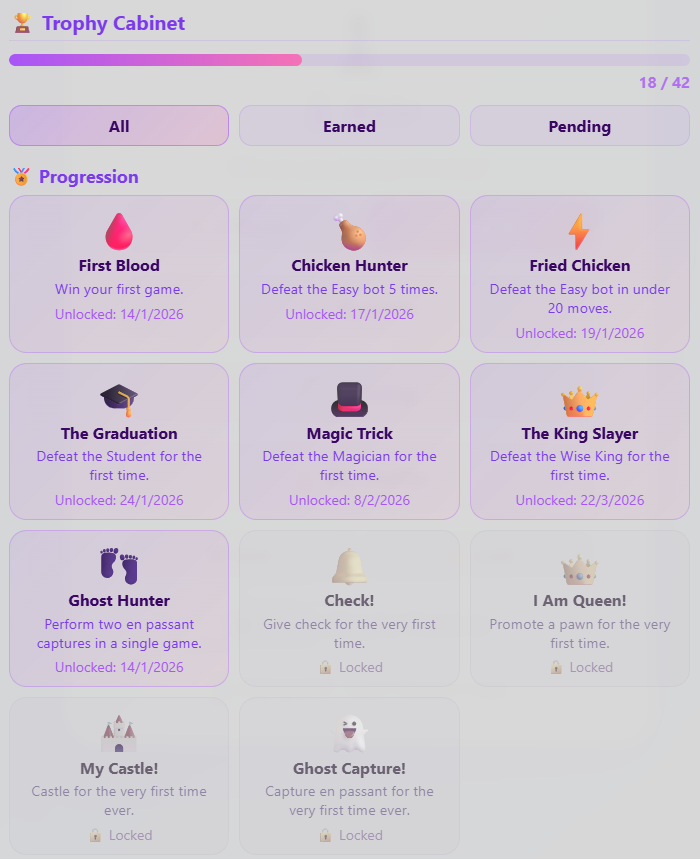
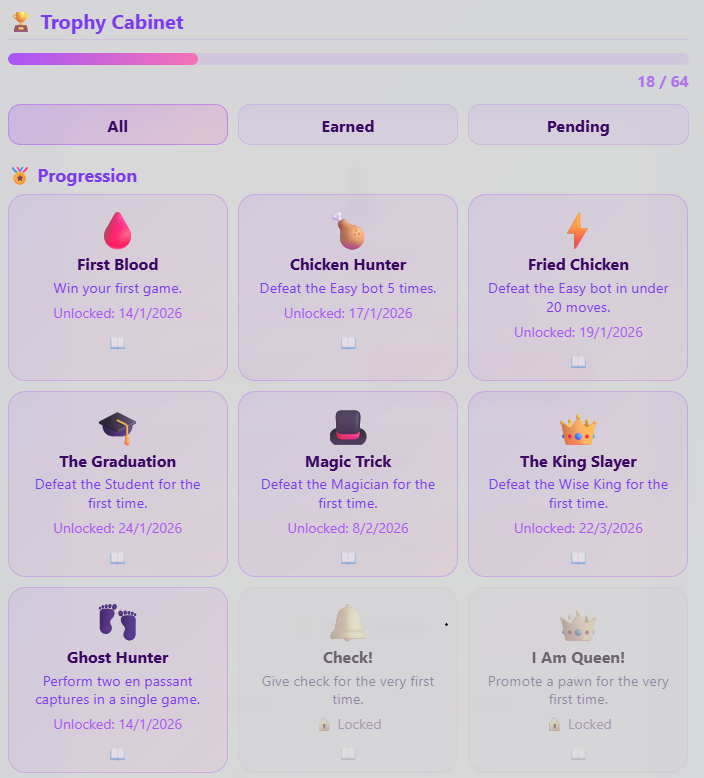
docs: update all four doc files for v2.24.0 — 64 trophies, 9 categories

diff --git a/README_es.md b/README_es.md
@@ -110,6 +110,7 @@ Airin te recuerda. Cada partida que juegas queda registrada, y tu progreso se re
 Al abrir Airin por primera vez te pedirá tu nombre. A partir de ahí registra tu historial completo.
 
 - **Estadísticas de por vida** — partidas totales, victorias, tablas, derrotas, deshacer usados, pistas pedidas
+- **Estadísticas por color** — registro de victorias, tablas y derrotas por separado para las partidas con blancas y con negras
 - **Salón de los Récords** — victoria más rápida (menos jugadas) y mayor ventaja de evaluación conseguida
 - **Barras W/D/L por bot** — registro desglosado por nivel de dificultad con colores
 - **Nombre editable** — pulsa sobre tu nombre en el perfil para cambiarlo en cualquier momento
@@ -119,15 +120,25 @@ Al abrir Airin por primera vez te pedirá tu nombre. A partir de ahí registra t
 
 ### 🏆 La Vitrina de Trofeos
 
-42 logros desbloqueables en cuatro categorías.
+**64 logros desbloqueables en 9 categorías** — un trofeo por cada casilla del tablero.
 
-**Progresión y Hitos** — derrota cada nivel de dificultad, gana en menos de 20 jugadas, realiza tu primera captura al paso.
+**🏅 Progresión** — derrota cada nivel de dificultad, realiza tu primera captura al paso, da tu primer jaque, enroca por primera vez.
 
-**Desafíos Técnicos** — gana sin pistas ni deshacer, sobrevive 60 jugadas contra el Rey Sabio, da jaque mate con un peón, fuerza tablas desde una posición perdida.
+**🧠 Técnica** — gana tras una remontada, enroca sin mover el rey, da jaque mate con el Rey activo en la 6ª fila, sube la Escalera Sin-Deshacer del Fácil al Rey Sabio.
 
-**Huevos de Pascua (ocultos)** — 8 trofeos secretos. Sus nombres están ocultos hasta que los desbloqueas. Ya los descubrirás.
+**⚡ Velocidad y Reto** — gana en 15 jugadas, derrota al Mago sin pistas, fuerza tablas contra el Mago.
 
-**Los Historiadores** — recrea sacrificios legendarios de la historia del ajedrez. Si mueves la pieza exacta a la casilla exacta en las condiciones adecuadas, Airin reconoce el momento y otorga el trofeo en tiempo real.
+**🔥 Rachas y Lealtad** — gana 3 seguidas, juega en 5 días distintos, gana 50 partidas con cada color.
+
+**📚 Aprendizaje** — usa al Profesor, explora aperturas con nombre, monta el fianchetto.
+
+**⚔ Táctica** — torre en la 7ª fila, dobles torres, batería, horquilla de peón, jaque a la descubierta, tormenta de peones y más.
+
+**🥊 Dos Jugadores** — 7 trofeos exclusivos del modo local 2 jugadores.
+
+**📜 Los Historiadores** — recrea sacrificios legendarios de la historia del ajedrez en tiempo real.
+
+**🥚 Huevos de Pascua (ocultos)** — 9 trofeos secretos. Nombres ocultos hasta desbloquearlos. Ya los descubrirás.
 
 <img src="screenshots/ES/trophy_cabinet.png" alt="Vitrina de Trofeos" width="500" />
 
@@ -240,12 +251,13 @@ Tres estilos, con etiquetas ahora visibles bajo el deslizador:
 * **Guardar y Cargar:** Ahora puedes exportar todo tu perfil y progreso de juego a un archivo y cargarlo más tarde en cualquier dispositivo.
 
 ### 🏆 La Vitrina de Trofeos
-* **42 Logros Desbloqueables:** ¡Hemos añadido una enorme Vitrina de Trofeos! Gana recompensas por todo, desde tu primer jaque y coronación de peón, hasta ganar en menos de 15 movimientos o lograr remontadas increíbles.
-* **Huevos de Pascua Ocultos:** Hay 8 trofeos secretos escondidos. No sabrás cuáles son hasta que los actives accidentalmente (o intencionadamente).
-* **Los Historiadores:** ¡Recrea momentos legendarios de la historia del ajedrez! Si logras encontrar los mismos sacrificios brillantes jugados por maestros como Marshall o Vladimirov, Airin lo reconocerá y te recompensará.
+* **64 Logros Desbloqueables:** Una enorme Vitrina de Trofeos con 64 trofeos en 9 categorías — uno por cada casilla del tablero. Gana recompensas por hitos, patrones tácticos, recreaciones históricas, remontadas, rachas y mucho más.
+* **Escalera Sin-Deshacer:** Cuatro trofeos por ganar a cada dificultad sin pulsar Deshacer ni una vez — *Sin Ruedines*, *Escrito a Tinta*, *Hechizo Irreversible*, *El Inmortal*.
+* **Huevos de Pascua Ocultos:** 9 trofeos secretos escondidos. No sabrás cuáles son hasta que los encuentres.
+* **Los Historiadores:** ¡Recrea momentos legendarios de la historia del ajedrez! Si encuentras los mismos sacrificios brillantes jugados por maestros como Marshall o Vladimirov, Airin lo reconocerá y te recompensará.
 
 ### 🎉 Celebraciones en el Juego
-* Cuando desbloquees un logro, aparecerá una celebración emergente en tiempo real durante tu partida. Airin ahora recuerda tus victorias. ¡Veamos cuántos trofeos puedes coleccionar!
+* Al desbloquear un logro, una pequeña notificación se desliza desde la esquina — en tiempo real, discreta, sin cubrir el tablero. Airin ahora recuerda tus victorias. ¡Veamos cuántos trofeos puedes coleccionar!
 
 *(Para las actualizaciones completas del motor desde v2.23.0 y anteriores, consulta el Historial de versiones completo).*
 

diff --git a/README.md b/README.md
@@ -108,6 +108,7 @@ Airin remembers you. Every game you play is tracked, and your progress is reward
 Upon starting for the first time, Airin asks for your name. From that point on, it tracks your full history.
 
 - **Lifetime stats** — total games, wins, draws, losses, undos used, hints requested
+- **Stats by color** — separate win/draw/loss record for games played as White and as Black
 - **Hall of Records** — fastest win (fewest moves) and highest evaluation advantage ever achieved
 - **Per-bot W/D/L bars** — colour-coded record against each difficulty level
 - **Editable name** — tap your name in the profile to rename yourself at any time
@@ -116,15 +117,25 @@ Upon starting for the first time, Airin asks for your name. From that point on, 
 
 ### 🏆 The Trophy Cabinet
 
-42 unlockable achievements across four categories.
+**64 unlockable achievements across 9 categories** — one trophy for every square on the board.
 
-**Progression & Milestones** — defeat each difficulty level, win in under 20 moves, pull off your first en passant.
+**🏅 Progression** — defeat each difficulty level, pull off your first en passant, make your first check, castle for the first time.
 
-**Technical Challenges** — win with zero hints and zero undos, survive 60 moves against Wise King, checkmate with a pawn, force a draw from a losing position.
+**🧠 Technical** — win after a comeback, castle and never move your king again, deliver checkmate with your King marching to rank 6, climb the No-Undo Ladder from Easy all the way to the Wise King.
 
-**Easter Eggs (hidden)** — 8 secret trophies. Their names are hidden until you unlock them. You'll figure them out.
+**⚡ Speed & Challenge** — win in 15 moves, beat the Hard bot without any hints, force a draw against the Magician.
 
-**The Historians** — recreate legendary sacrifices from chess history. If you play the exact piece to the exact square under the right conditions, Airin recognises the moment and awards the trophy in real time.
+**🔥 Streaks & Loyalty** — win 3 in a row, play on 5 different days, win 50 games on each side of the board.
+
+**📚 Learning** — use the Coach, explore named openings, set up the fianchetto.
+
+**⚔ Tactics** — rook on the 7th rank, double rooks, battery, pawn fork, discovered check, pawn storm, and more.
+
+**🥊 Two-Player** — 7 trophies exclusive to local 2-player mode.
+
+**📜 The Historians** — recreate legendary sacrifices from chess history in real time.
+
+**🥚 Easter Eggs (hidden)** — 9 secret trophies. Names hidden until unlocked. You'll figure them out.
 
 <img src="screenshots/EN/trophy_cabinet.png" alt="Trophy Cabinet" width="500" />
 
@@ -232,12 +243,13 @@ Welcome to Airin v2.24.0! This massive update introduces **The Statistician**, g
 * **Save & Load:** You can now export your entire profile and game progress to a file and load it later on any device.
 
 ### 🏆 The Trophy Cabinet
-* **42 Unlockable Achievements:** We've added a massive Trophy Cabinet! Earn rewards for everything from your first check and pawn promotion, to winning in under 15 moves, to pulling off crazy comebacks.
-* **Hidden Easter Eggs:** There are 8 secret trophies tucked away. You won't know what they are until you accidentally (or intentionally) trigger them.
-* **The Historians:** Recreate legendary moments from chess history! If you manage to find the same brilliant sacrifices played by masters like Marshall or Vladimirov, Airin will recognize it and reward you.
+* **64 Unlockable Achievements:** A massive Trophy Cabinet with 64 trophies across 9 categories — one for every square on the board. Earn rewards for milestones, tactical patterns, historical recreations, comebacks, streaks, and more.
+* **No-Undo Ladder:** Four trophies for winning each difficulty level without ever pressing Undo — *No Training Wheels*, *Written in Ink*, *Irreversible Spell*, *The Immortal*.
+* **Hidden Easter Eggs:** 9 secret trophies tucked away. You won't know what they are until you find them.
+* **The Historians:** Recreate legendary moments from chess history! If you manage to find the same brilliant sacrifices played by masters like Marshall or Vladimirov, Airin will recognise it and reward you.
 
 ### 🎉 In-Game Celebrations
-* When you unlock an achievement, a celebration popup will appear in real-time during your game. Airin now remembers your victories. Let's see how many trophies you can collect!
+* When you unlock an achievement, a small banner slides in from the corner — real-time, non-intrusive, never covering the board. Airin now remembers your victories. Let's see how many trophies you can collect!
 
 *(For the complete engine updates from v2.23.0 and prior, see the full Changelog).*
 

diff --git a/docs/CHANGELOG_es.md b/docs/CHANGELOG_es.md
@@ -17,8 +17,19 @@ Formato: versión · tamaño · qué cambió.
 - **Portabilidad:** Nueva función para exportar e importar datos de perfil y estados de juego mediante archivos de guardado.
 
 ### La Vitrina de Trofeos
-- **42 Logros Desbloqueables:** Un sistema de logros completamente nuevo con 42 trofeos únicos repartidos en 8 categorías (Progresión, Técnica, Velocidad y Reto, Rachas y Lealtad, Aprendizaje, Diversión, Los Historiadores y Huevos de Pascua ocultos).
-- **Celebraciones en el Juego:** Al desbloquear trofeos, aparecerán notificaciones emergentes en tiempo real durante tu partida.
+- **64 Logros Desbloqueables:** Un sistema de logros completamente nuevo con 64 trofeos únicos — uno por cada casilla del tablero — repartidos en 9 categorías.
+  - **🏅 Progresión (12):** Primera victoria, primer jaque, primer enroque, primera coronación, primera captura al paso, derrotar a cada nivel de dificultad y más.
+  - **🧠 Técnica (10):** Juego de calidad — remontadas, enroque sin mover el rey, sobrevivir 60 jugadas al Rey Sabio, dar jaque mate con el Rey activo en la 6ª fila.
+  - **⚡ Velocidad y Reto (5):** Ganar en 15 jugadas, derrotar al Mago sin pistas, forzar tablas contra el Mago.
+  - **🔥 Rachas y Lealtad (4):** Ganar 3 seguidas, jugar en 5 días distintos, ganar 50 partidas con cada color (*Blanco y Negro*).
+  - **📚 Aprendizaje (3):** Usar al Profesor 10 veces, explorar 5 aperturas con nombre, montar un fianchetto (*El Dragón*).
+  - **⚔ Táctica (9):** Patrones clásicos — torre en la 7ª fila, dobles torres, batería, horquilla de peón, jaque a la descubierta, tormenta de peones y más.
+  - **🥊 Dos Jugadores (7):** Trofeos exclusivos del modo PvP.
+  - **📜 Los Historiadores (5):** Recrea sacrificios legendarios de la historia del ajedrez en tiempo real.
+  - **🥚 Huevos de Pascua (9):** Nueve trofeos ocultos. Nombres escondidos hasta desbloquearlos — incluyendo uno que recompensa el patrón de jaque mate más elegante del ajedrez.
+- **Escalera Sin-Deshacer:** Cuatro trofeos por ganar a cada dificultad sin pulsar Deshacer ni una vez — *Sin Ruedines* (Fácil), *Escrito a Tinta* (Medio), *Hechizo Irreversible* (Difícil), *El Inmortal* (Rey Sabio).
+- **Estadísticas por Color:** El perfil ahora registra victorias, tablas y derrotas por separado según el color con el que jugaste.
+- **Celebraciones en el Juego:** Una notificación emergente aparece en la esquina inferior derecha al desbloquear un trofeo — visible pero no intrusiva, sin cubrir el tablero.
 - **Detección de Motivos Históricos:** El motor ahora reconoce y recompensa famosos sacrificios históricos (ej. "La Lluvia de Oro" de Marshall) si se juegan en la partida.
 
 ---

diff --git a/docs/CHANGELOG.md b/docs/CHANGELOG.md
@@ -16,8 +16,19 @@ Format: version · size · what changed.
 - **Portability:** Added functionality to export and import profile data and game states via save files.
 
 ### The Trophy Cabinet
-- **42 Unlockable Achievements:** A brand new achievement system featuring 42 unique unlockable trophies across 8 categories (Progression, Technical, Speed & Challenge, Streaks & Loyalty, Learning, Fun & Silly, The Historians, and hidden Easter Eggs).
-- **In-Game Celebrations:** Trophies trigger real-time, non-intrusive popup celebrations during gameplay when conditions are met.
+- **64 Unlockable Achievements:** A brand new achievement system featuring 64 unique unlockable trophies across 9 categories — one trophy for every square on the board.
+  - **🏅 Progression (12):** First win, first check, first castle, first promotion, first en passant, defeat each bot level, and more.
+  - **🧠 Technical (10):** High-quality, disciplined play — win after a comeback, castle without moving your king, survive 60 moves vs the Wise King, deliver checkmate with your King active on rank 6.
+  - **⚡ Speed & Challenge (5):** Win in 15 moves, beat the Hard bot without hints, force a draw against the Magician.
+  - **🔥 Streaks & Loyalty (4):** Win 3 in a row, play on 5 different days, earn *Black and White* by winning 50 games on each side.
+  - **📚 Learning (3):** Use the Coach 10 times, explore 5 named openings, set up a fianchetto bishop (*The Dragon*).
+  - **⚔ Tactics (9):** Classic positional patterns — rook on the 7th rank, double rooks, battery, pawn fork, discovered check, pawn storm, and more.
+  - **🥊 Two-Player (7):** Exclusive trophies for PvP mode.
+  - **📜 The Historians (5):** Recreate legendary sacrifices from chess history in real time.
+  - **🥚 Easter Eggs (9):** Nine hidden trophies. Names concealed until unlocked — including one that rewards the most elegant checkmate pattern in chess.
+- **No-Undo Ladder:** Four trophies for winning each difficulty level without ever pressing Undo — *No Training Wheels* (Easy), *Written in Ink* (Medium), *Irreversible Spell* (Hard), *The Immortal* (Wise King).
+- **Stats by Color:** Profile now tracks wins, draws, and losses separately for games played as White and as Black.
+- **In-Game Celebrations:** A corner slide-in banner appears when a trophy unlocks — visible but non-intrusive, never covering the board.
 - **Historical Motifs Detection:** The engine now recognizes and rewards famous historical sacrifices (e.g., Marshall's "Golden Rain") if played in-game.
 
 ---
